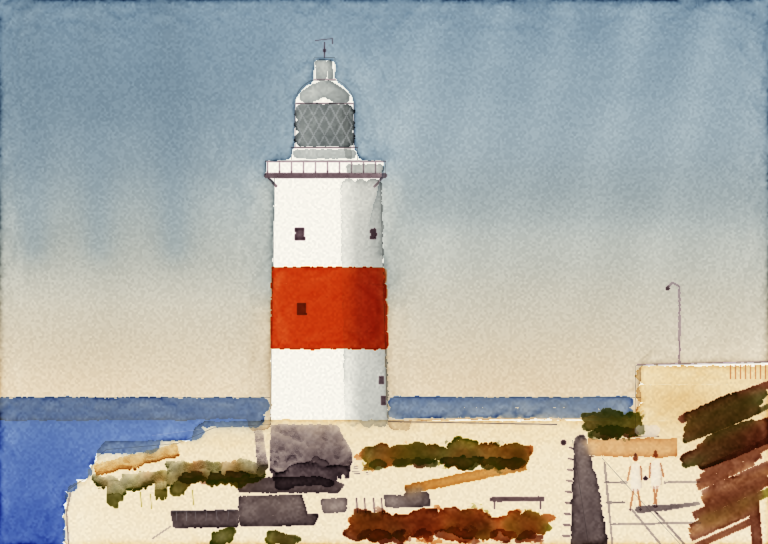
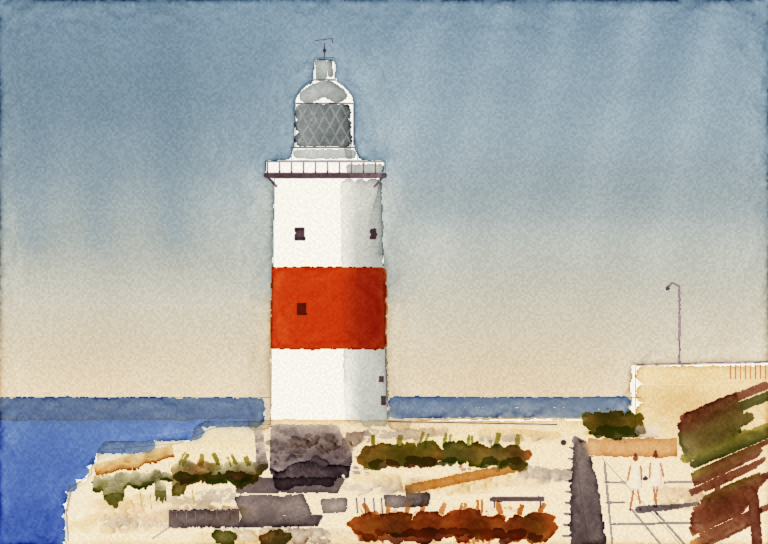
feat: paint the lighthouse study with angle, twist and timed strokes
The rock is textured with the side of a round brush, the cliff's shadow
planes are flat strokes with a turned edge, the terraces taper as the
edge turns along the stroke, the path shadow is a dagger pressed harder
as it comes forward, and grasses are flicked up with a comber. Foliage
touches vary in speed and are laid over at the fringe.

Updates the picture of the study in the README.

diff --git a/trials/lighthouse_painting.py b/trials/lighthouse_painting.py
@@ -17,13 +17,14 @@ from collections.abc import Callable, Sequence
 from itertools import pairwise
 from pathlib import Path
 
+from watercolor.brushes import Journey
 from watercolor.pigments import PIGMENTS
 from watercolor.session import Configuration, Session
 
 WIDTH, HEIGHT = 768, 544
 HORIZON = 397.0
 Action = dict[str, object]
-Points = Sequence[Sequence[float]]
+Points = Journey
 
 # The tower, measured from the reference: body, gallery, the collar under the lantern room,
 # the lantern room, its dome and the cupola on top.
@@ -327,12 +328,63 @@ UMBER_DARK = {"burnt_umber": 2.4, "french_ultramarine": 0.5}
 DARK = {"french_ultramarine": 1.5, "burnt_sienna": 1.9, "ivory_black": 0.7}
 
 
-def facet(path: Points, mix: dict[str, float], size: float = 5.0) -> list[Action]:
-    """One crisp-edged plane of shadow, laid with a flat brush on dry paper."""
-    return [load("flat", size, mix), stroke([[x, y, 0.9] for x, y in path], 110)]
+def facet(
+    path: Sequence[Sequence[float]], mix: dict[str, float], size: float = 5.0, twist: float = 0.0
+) -> list[Action]:
+    """One crisp-edged plane of shadow, laid with a flat brush on dry paper.
+
+    Turning the edge of the brush a little gives the plane slanted ends, so it reads as a face
+    seen at an angle and not as a bar.
+    """
+    points = [{"x": x, "y": y, "pressure": 0.9, "twist": twist} for x, y in path]
+    return [load("flat", size, mix), stroke(points, 110)]
 
 
-def broken(path: Points, mix: dict[str, float], size: float = 3.0) -> list[Action]:
+def dragged(
+    spine: Sequence[tuple[float, float]],
+    depth: float,
+    count: int,
+    mixes: Sequence[tuple[dict[str, float], float]],
+    seed: int,
+    sizes: tuple[float, float] = (5.0, 9.0),
+) -> list[Action]:
+    """Dry-brush: the side of a round brush dragged lightly and quickly along the strata.
+
+    Laid over, the brush rides on the grain of the paper and leaves a broken, sparkling mark,
+    which is how rough rock is given its texture without being filled in.
+    """
+    chance = random.Random(seed)
+    (x0, y0), (x1, y1) = spine[0], spine[-1]
+    actions: list[Action] = []
+    for _ in range(count):
+        share = chance.random()
+        x, y = x0 + (x1 - x0) * share, y0 + (y1 - y0) * share + chance.triangular(-1.0, 1.0, 0.0) * depth
+        reach, slope = chance.uniform(14.0, 34.0), chance.uniform(-0.15, 0.15)
+        mix = chance.choices([mix for mix, _ in mixes], [weight for _, weight in mixes])[0]
+        hold = {"angle": chance.uniform(78.0, 90.0), "pressure": chance.uniform(0.35, 0.7)}
+        path = [{"x": x - reach, "y": y - reach * slope, **hold}, {"x": x + reach, "y": y + reach * slope, **hold}]
+        actions += [load("round", chance.uniform(*sizes), mix, 0.7), stroke(path, chance.uniform(200.0, 320.0))]
+    return actions
+
+
+def flicks(
+    roots: Sequence[tuple[float, float]], mix: dict[str, float], seed: int, brush: str = "comber", size: float = 4.0
+) -> list[Action]:
+    """Grasses and stems: each one pressed at its root and flicked upward, fast, as the pressure lifts."""
+    chance = random.Random(seed)
+    actions: list[Action] = []
+    for x, y in roots:
+        lean, height = chance.uniform(-7.0, 7.0), chance.uniform(9.0, 16.0)
+        path = [
+            {"x": x, "y": y, "pressure": 0.9, "t": 0.0},
+            {"x": x + 0.4 * lean, "y": y - 0.5 * height, "pressure": 0.6, "t": 0.25},
+            {"x": x + lean, "y": y - height, "pressure": 0.05, "t": 0.34},
+        ]
+        actions += [load(brush, size, mix, 0.8), stroke(path, 120, smooth=True)]
+    return actions
+
+
+def broken(path: Sequence[Sequence[float]], mix: dict[str, float], size: float = 3.0) -> list[Action]:
     """A dragged, half-dry line that skips on the grain."""
     return [load("round", size, mix, 0.3), stroke([[x, y, 0.6] for x, y in path], 240)]
 
@@ -349,8 +401,9 @@ def touches(
 ) -> list[Action]:
     """Many short, varied touches along a spine, laid wet into each other.
 
-    Each touch has its own length, direction, pressure and colour (mixes are given with weights).
-    Those at the fringe are made with a brush that is nearly dry, which leaves a ragged edge.
+    Each touch has its own length, direction, pressure, speed and colour (mixes are given with
+    weights). Those in the body are made with the belly of the brush; those at the fringe with
+    its side, laid over and nearly dry, which leaves a ragged edge.
     """
     chance = random.Random(seed)
     lengths = [math.dist(a, b) for a, b in pairwise(spine)]
@@ -369,9 +422,14 @@ def touches(
         reach, angle = chance.uniform(0.6, 1.6) * size, chance.uniform(-lean, lean)
         dx, dy = reach * math.cos(angle), reach * math.sin(angle)
         fringe = abs(across) > 0.6
-        actions.append(load(brush, size, mix, 0.35 if fringe else 0.95))
-        path = [[x - dx, y - dy, chance.uniform(0.3, 0.7)], [x, y, 1.0], [x + dx, y + dy, chance.uniform(0.2, 0.6)]]
-        actions.append(stroke(path, 150))
+        actions.append(load(brush, size, mix, 0.5 if fringe else 0.95))
+        hold = chance.uniform(75.0, 90.0) if fringe else chance.uniform(25.0, 45.0)
+        path = [
+            {"x": x - dx, "y": y - dy, "pressure": chance.uniform(0.3, 0.7), "angle": hold},
+            {"x": x, "y": y, "pressure": 1.0, "angle": hold},
+            {"x": x + dx, "y": y + dy, "pressure": chance.uniform(0.2, 0.6), "angle": hold},
+        ]
+        actions.append(stroke(path, chance.uniform(110.0, 240.0)))
     return actions
 
 
@@ -476,12 +534,14 @@ def foreground() -> list[Action]:
     # Foliage, painted wet on a tilted sheet so that the darkest green runs from its lower edge.
     actions.append(tilt(0.16))
     actions += touches([(96, 482), (168, 474)], 4, 26, foliage, seed=2, sizes=(3.0, 5.5))
-    actions += touches([(176, 470), (254, 469)], 8, 46, foliage, seed=12, sizes=(4.0, 7.5))
+    actions += touches([(176, 470), (254, 469)], 8, 46, foliage, seed=12, sizes=(4.0, 7.5), brush="cats_tongue")
     actions.append(tilt(0.28))
     for x, y, dwell in ((114.0, 487.0, 7.0), (160.0, 484.0, 4.0), (178.0, 482.0, 4.0)):
         actions += [load("mop", 4, {"hansa_yellow": 0.9, "ivory_black": 0.8}), dab(x, y, dwell)]
     actions += [wait(20), tilt(0.0)]
-    actions += touches([(364, 456), (440, 452), (524, 456)], 11, 100, hedge, seed=3, sizes=(3.5, 7.5))
+    actions += touches(
+        [(364, 456), (440, 452), (524, 456)], 11, 100, hedge, seed=3, sizes=(3.5, 7.5), brush="cats_tongue"
+    )
     actions += touches([(590, 423), (636, 425)], 11, 44, foliage, seed=4, sizes=(4.0, 7.5))
     right_mass = ((UMBER_DARK, 3.0), (dark_green, 3.0), (OLIVE, 1.5), (ochre_brown, 1.0))
     # The dark mass below the wall, laid in strokes that climb to the right so that light shows between them.
@@ -490,8 +550,13 @@ def foreground() -> list[Action]:
         x, y = 680.0 + slopes.uniform(0.0, 30.0), 418.0 + 3.2 * index + slopes.uniform(-2.0, 2.0)
         reach = slopes.uniform(40.0, 86.0)
         mix = slopes.choices([mix for mix, _ in right_mass], [weight for _, weight in right_mass])[0]
-        path = [[x, y, 0.8], [x + 0.5 * reach, y - 0.2 * reach, 1.0], [x + reach, y - 0.4 * reach, 0.6]]
-        actions += [load("round", slopes.uniform(3.5, 6.5), mix), stroke(path, 150)]
+        hold = slopes.uniform(35.0, 80.0)
+        path = [
+            {"x": x, "y": y, "pressure": 0.8, "angle": hold},
+            {"x": x + 0.5 * reach, "y": y - 0.2 * reach, "pressure": 1.0, "angle": hold},
+            {"x": x + reach, "y": y - 0.4 * reach, "pressure": 0.5, "angle": hold},
+        ]
+        actions += [load("filbert", slopes.uniform(3.5, 6.5), mix), stroke(path, slopes.uniform(120.0, 260.0))]
     actions += touches([(354, 526), (450, 523), (546, 526)], 15, 130, scrub, seed=6, sizes=(4.0, 8.0))
     actions += touches([(216, 538), (228, 537)], 4, 6, foliage, seed=10, sizes=(4.0, 7.0))
     actions += touches([(270, 538), (292, 537)], 4, 8, foliage, seed=11, sizes=(4.0, 7.0))
@@ -504,15 +569,29 @@ def foreground() -> list[Action]:
     actions += touches(
         [(360, 536), (450, 534), (544, 536)], 6, 36, ((UMBER_DARK, 3.0), (RUST, 2.0)), seed=35, sizes=(3.5, 6.5)
     )
-    # The cliff: neutral grey planes of shadow on the pale face, the darkest at its foot.
-    for corners, mix, seed, brush in (
-        ([(238, 477), (320, 476), (344, 483), (338, 492), (240, 492)], scaled(neutral, 1.5), 43, 4.0),
-        ([(239, 496), (300, 495), (308, 516), (240, 517)], scaled(neutral, 0.8), 44, 5.0),
-        ([(239, 516), (320, 514), (315, 526), (241, 527)], scaled(neutral, 1.8), 45, 3.0),
-        ([(169, 511), (238, 509), (238, 526), (173, 526)], scaled(neutral, 1.5), 46, 4.0),
-        ([(404, 493), (428, 492), (430, 506), (406, 507)], scaled(neutral, 1.5), 47, 3.0),
+    # The texture of the rock: pale ochre and grey dragged over it with the side of the brush.
+    rough = (
+        ({"yellow_ochre": 0.6, "burnt_sienna": 0.3}, 3.0),
+        (scaled(neutral, 0.7), 2.0),
+        ({"burnt_sienna": 0.6}, 1.0),
+    )
+    actions += dragged([(96, 512), (232, 518)], 22, 30, rough, seed=81)
+    actions += dragged([(250, 536), (350, 534)], 8, 8, rough, seed=82)
+    actions += dragged([(366, 482), (560, 478)], 10, 18, rough, seed=83)
+    actions += dragged([(392, 432), (548, 434)], 5, 10, rough, seed=84, sizes=(4.0, 6.0))
+    actions += dragged([(676, 500), (704, 500)], 30, 8, rough, seed=85, sizes=(4.0, 6.0))
+    actions += dragged([(280, 444), (344, 448)], 12, 10, ((ROCK_DARK, 1.0),), seed=86, sizes=(5.0, 8.0))
+    actions.append(DRY)
+    # The cliff: grey planes of shadow on the pale face, each one stroke of a flat brush whose edge
+    # is turned a little so the plane ends on a slant; the darkest at its foot.
+    for path, mix, size, twist in (
+        ([[240, 485], [342, 484]], scaled(neutral, 1.5), 7.5, 28.0),
+        ([[241, 506], [304, 505]], scaled(neutral, 0.8), 10.5, -22.0),
+        ([[241, 521], [318, 520]], scaled(neutral, 1.8), 5.5, 30.0),
+        ([[171, 518], [236, 518]], scaled(neutral, 1.5), 8.5, 0.0),
+        ([[406, 500], [427, 499]], scaled(neutral, 1.5), 6.5, 15.0),
     ):
-        actions += plane(corners, mix, seed=seed, brush=brush)
+        actions += facet(path, mix, size, twist)
     # Smaller marks in the rock: a pale wedge beside the shadowed face, dashes under the rock, hairline runs.
     actions += plane([(320, 500), (346, 498), (344, 512), (322, 514)], scaled(neutral, 0.6), seed=48, brush=3.0)
     actions += plane([(382, 496), (404, 495), (404, 507), (384, 508)], scaled(neutral, 0.7), seed=52, brush=3.0)
@@ -534,8 +613,8 @@ def foreground() -> list[Action]:
     # The path's shadow: one stroke of a very large round brush, with the fence posts standing along its edge.
     path_shadow = scaled(neutral, 1.5)
     actions += [
-        load("round", 20, path_shadow),
-        stroke([[580, 440, 0.15], [584, 480, 0.45], [589, 548, 1.0]], 90, smooth=True),
+        load("dagger", 19, path_shadow),
+        stroke([[580, 440, 0.1], [584, 480, 0.45], [589, 548, 1.0]], 90, smooth=True),
     ]
     for index in range(9):
         y = 448.0 + 11.0 * index
@@ -563,15 +642,26 @@ def foreground() -> list[Action]:
         x, y = 690.0 + steps.uniform(0.0, 16.0), 470.0 + 5.6 * step + steps.uniform(-1.5, 1.5)
         reach = steps.uniform(50.0, 80.0)
         mix = UMBER_DARK if step % 2 == 0 else steps.choice((ochre_brown, UMBER, scaled(OLIVE, 0.8)))
-        path = [[x, y, 0.9], [x + reach, y - 0.45 * reach, steps.uniform(0.6, 0.9)]]
-        actions += [load("flat", steps.uniform(2.5, 4.5), mix, steps.uniform(0.6, 0.95)), stroke(path, 180)]
+        path = [
+            {"x": x, "y": y, "pressure": 0.9, "twist": 0.0, "t": 0.0},
+            {"x": x + 0.6 * reach, "y": y - 0.27 * reach, "pressure": 0.8, "twist": 35.0, "t": 0.45},
+            {"x": x + reach, "y": y - 0.45 * reach, "pressure": 0.5, "twist": 70.0, "t": 0.6},
+        ]
+        actions += [
+            load("flat", steps.uniform(3.0, 5.0), mix, steps.uniform(0.6, 0.95)),
+            stroke(path, 180, smooth=True),
+        ]
+    # Grasses flicked up from the scrub, the hedge and the head of the cliff.
+    actions += flicks([(x, 513.0) for x in range(366, 540, 19)], scaled(RUST, 0.8), seed=91)
+    actions += flicks([(x, 446.0) for x in range(374, 520, 24)], scaled(OLIVE, 0.9), seed=92)
+    actions += flicks([(x, 464.0) for x in range(182, 252, 17)], scaled(OLIVE, 0.9), seed=93)
     actions += facet([[730, 494], [735, 514]], UMBER_DARK, 5.0)
     actions += facet([[716, 478], [720, 518]], UMBER_DARK, 3.0)
     actions += facet([[752, 490], [757, 546]], UMBER_DARK, 5.0)
     return [*actions, DRY]
 
 
-def line(path: Points, mix: dict[str, float], size: float = 1.2) -> list[Action]:
+def line(path: Sequence[Sequence[float]], mix: dict[str, float], size: float = 1.2) -> list[Action]:
     return [load("rigger", size, mix), stroke([[x, y, 0.7] for x, y in path], 70)]
 
 
